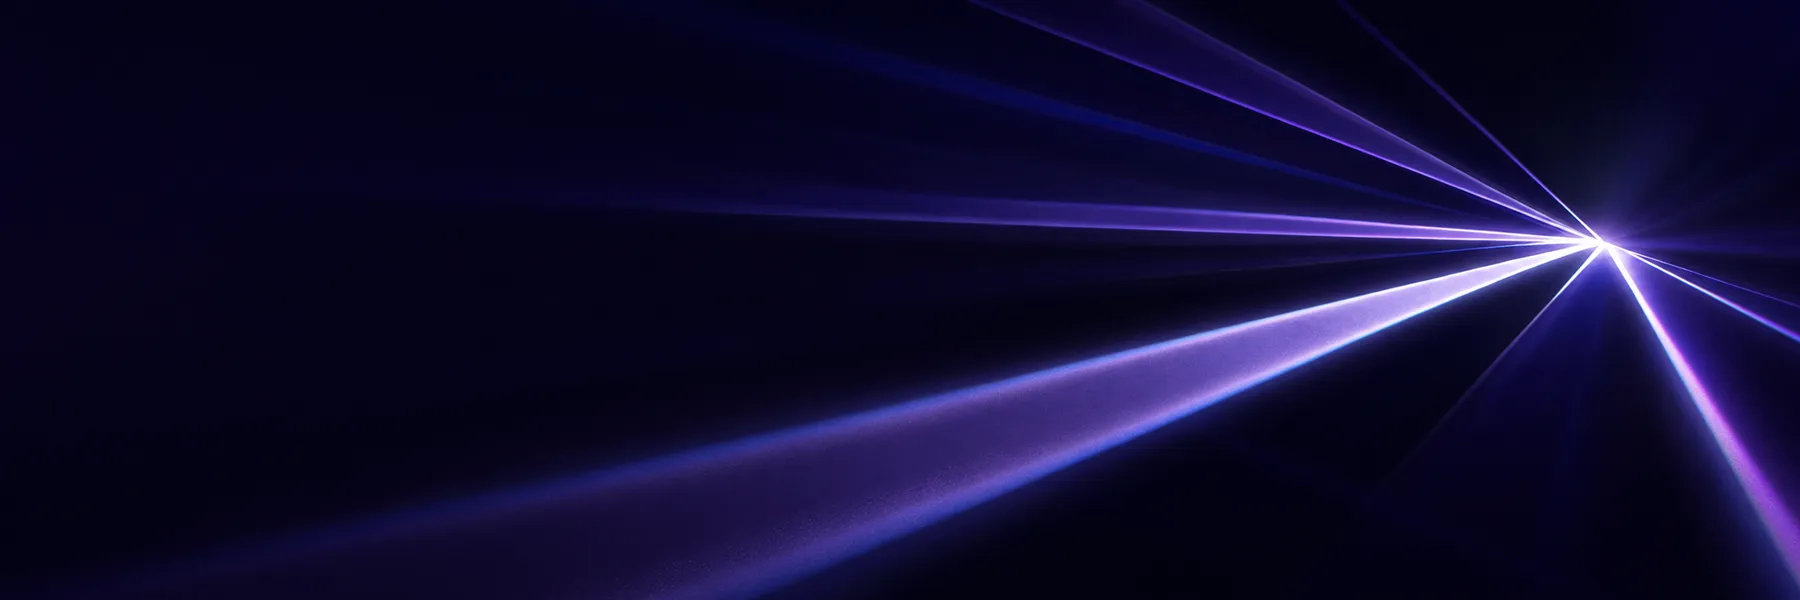
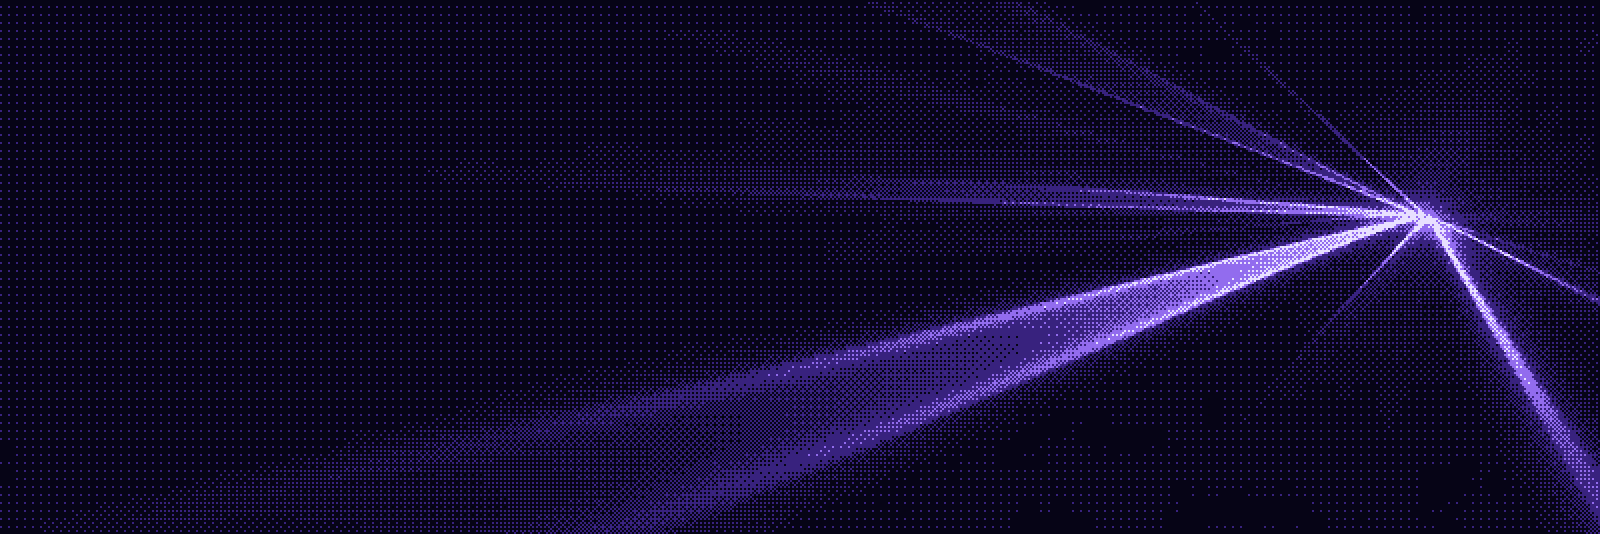
Dither effect on header images (Bayer, ACL palette)
Claude-Session: https://claude.ai/code/session_015ez9Tos3nKVWbBGBx7gJRk

Changed region(s): [[0.0312, 0.0, 1.0, 1.0], [0.75, 0.03, 0.7812, 0.0899]]

diff --git a/index.html b/index.html
@@ -149,7 +149,7 @@ kbd{font:500 11px/1 var(--disp);padding:5px 7px;border-radius:6px;border:1px sol
 .btn.o{border:1px solid var(--line2);color:#fff}.btn.o:hover{background:rgba(180,150,255,.1)}
 .btn svg{width:15px;height:15px}
 /* hero */
-.hero{position:relative;overflow:hidden;margin:18px 24px 0;padding:34px 34px 30px;border-radius:16px;border:1px solid var(--line);background:linear-gradient(90deg,rgba(6,4,22,.92) 0%,rgba(8,6,28,.6) 42%,rgba(8,6,28,.08) 100%),url(images/hero-beam.webp) 88% 40%/cover no-repeat,#07051a}
+.hero{image-rendering:pixelated;position:relative;overflow:hidden;margin:18px 24px 0;padding:34px 34px 30px;border-radius:16px;border:1px solid var(--line);background:linear-gradient(90deg,rgba(6,4,22,.92) 0%,rgba(8,6,28,.6) 42%,rgba(8,6,28,.08) 100%),url(images/hero-beam.webp) 88% 40%/cover no-repeat,#07051a}
 .hero::before{content:"";position:absolute;inset:0;pointer-events:none;background:radial-gradient(50% 90% at 5% 120%,rgba(70,90,255,.2),transparent 65%)}
 .hero::after{content:"";position:absolute;inset:0;pointer-events:none;background-image:radial-gradient(rgba(200,196,255,.16) 1px,transparent 1.2px);background-size:22px 22px;-webkit-mask-image:linear-gradient(90deg,transparent 30%,#000 100%);mask-image:linear-gradient(90deg,transparent 30%,#000 100%);opacity:.7}
 .hero>*{position:relative;z-index:1}
@@ -174,7 +174,7 @@ h1 .sr{font:italic 400 calc(.9em + 2pt)/1 var(--serif);letter-spacing:-.02em;col
 .sh2 .more svg{width:13px;height:13px}
 /* banner */
 .ban{position:relative;overflow:hidden;margin:18px 24px 0;min-height:176px;border-radius:16px;border:1px solid var(--line);background:#07051a;display:flex;align-items:center;isolation:isolate}
-.ban .bi{position:absolute;z-index:-2;right:0;top:0;bottom:0;width:66%;background:var(--img) center var(--py,35%)/cover no-repeat;-webkit-mask-image:linear-gradient(90deg,transparent 0%,#000 60%);mask-image:linear-gradient(90deg,transparent 0%,#000 60%)}
+.ban .bi{image-rendering:pixelated;position:absolute;z-index:-2;right:0;top:0;bottom:0;width:66%;background:var(--img) center var(--py,35%)/cover no-repeat;-webkit-mask-image:linear-gradient(90deg,transparent 0%,#000 60%);mask-image:linear-gradient(90deg,transparent 0%,#000 60%)}
 .ban::before{content:"";position:absolute;inset:0;z-index:-1;background:linear-gradient(90deg,rgba(7,5,26,.96) 0%,rgba(24,16,70,.72) 42%,rgba(40,30,120,.22) 100%)}
 .ban::after{content:"";position:absolute;inset:0;z-index:-1;pointer-events:none;background:radial-gradient(60% 120% at 92% 0%,rgba(130,110,255,.22),transparent 65%)}
 .ban.full .bi{left:0;width:100%;transform-origin:right center;transform:scale(var(--sc,1));-webkit-mask-image:none;mask-image:none;background-position:right var(--py)}
